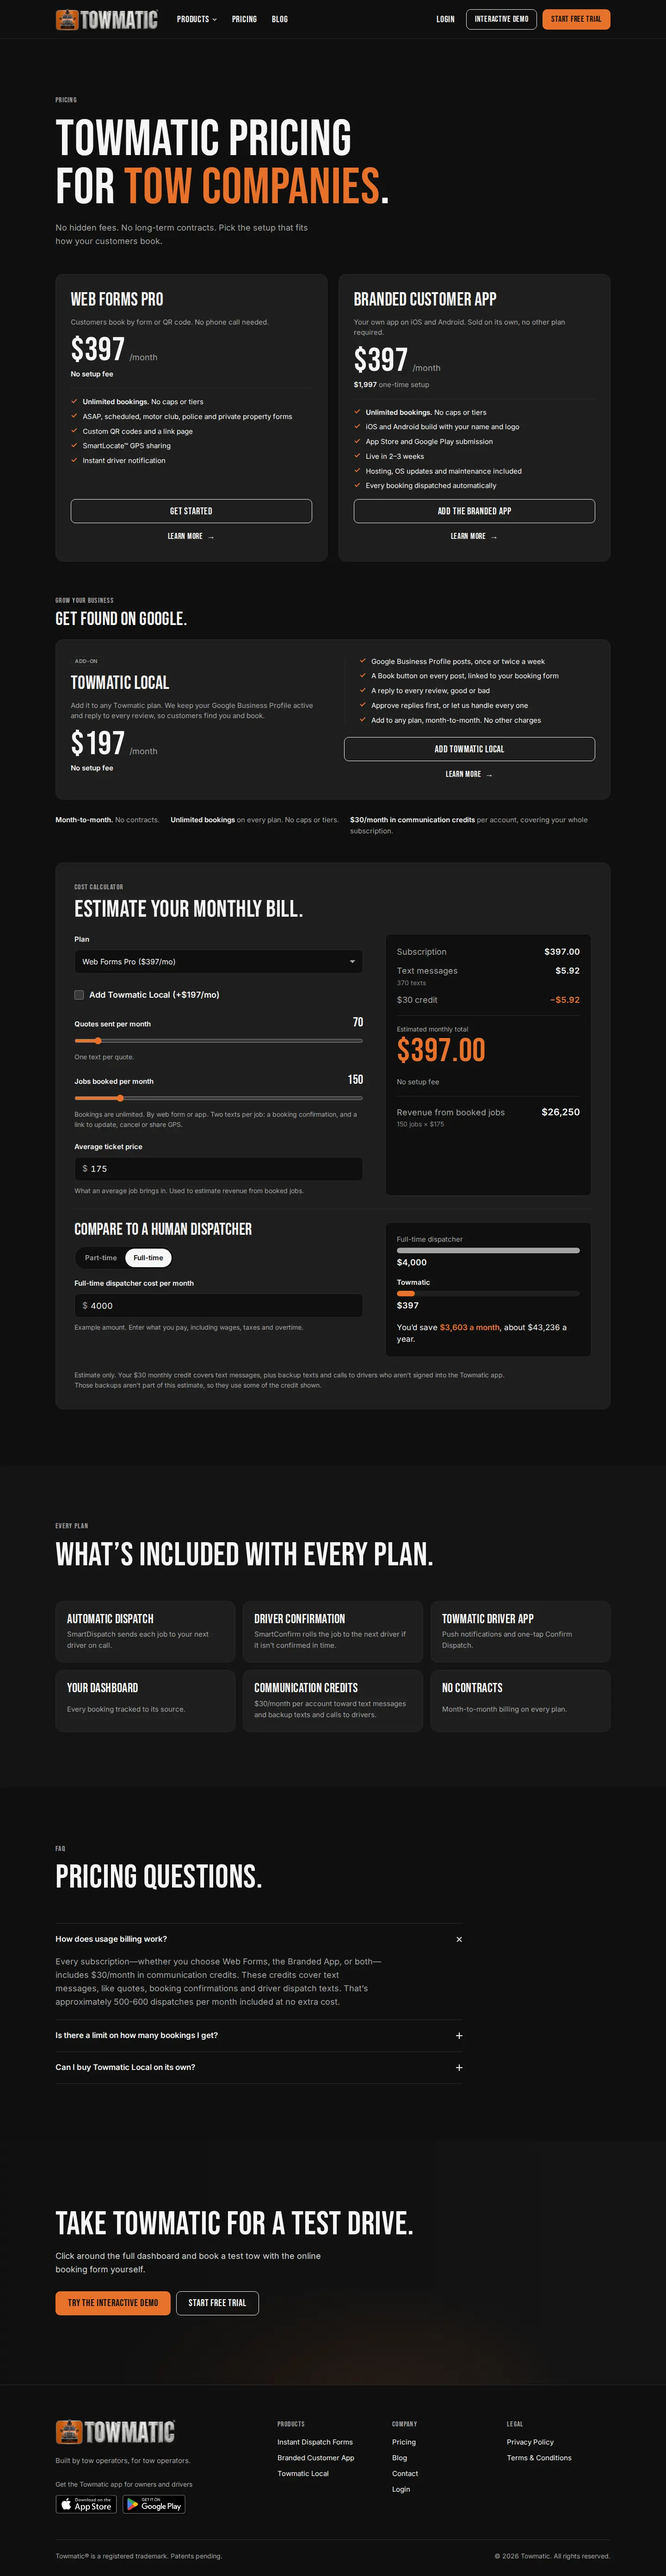
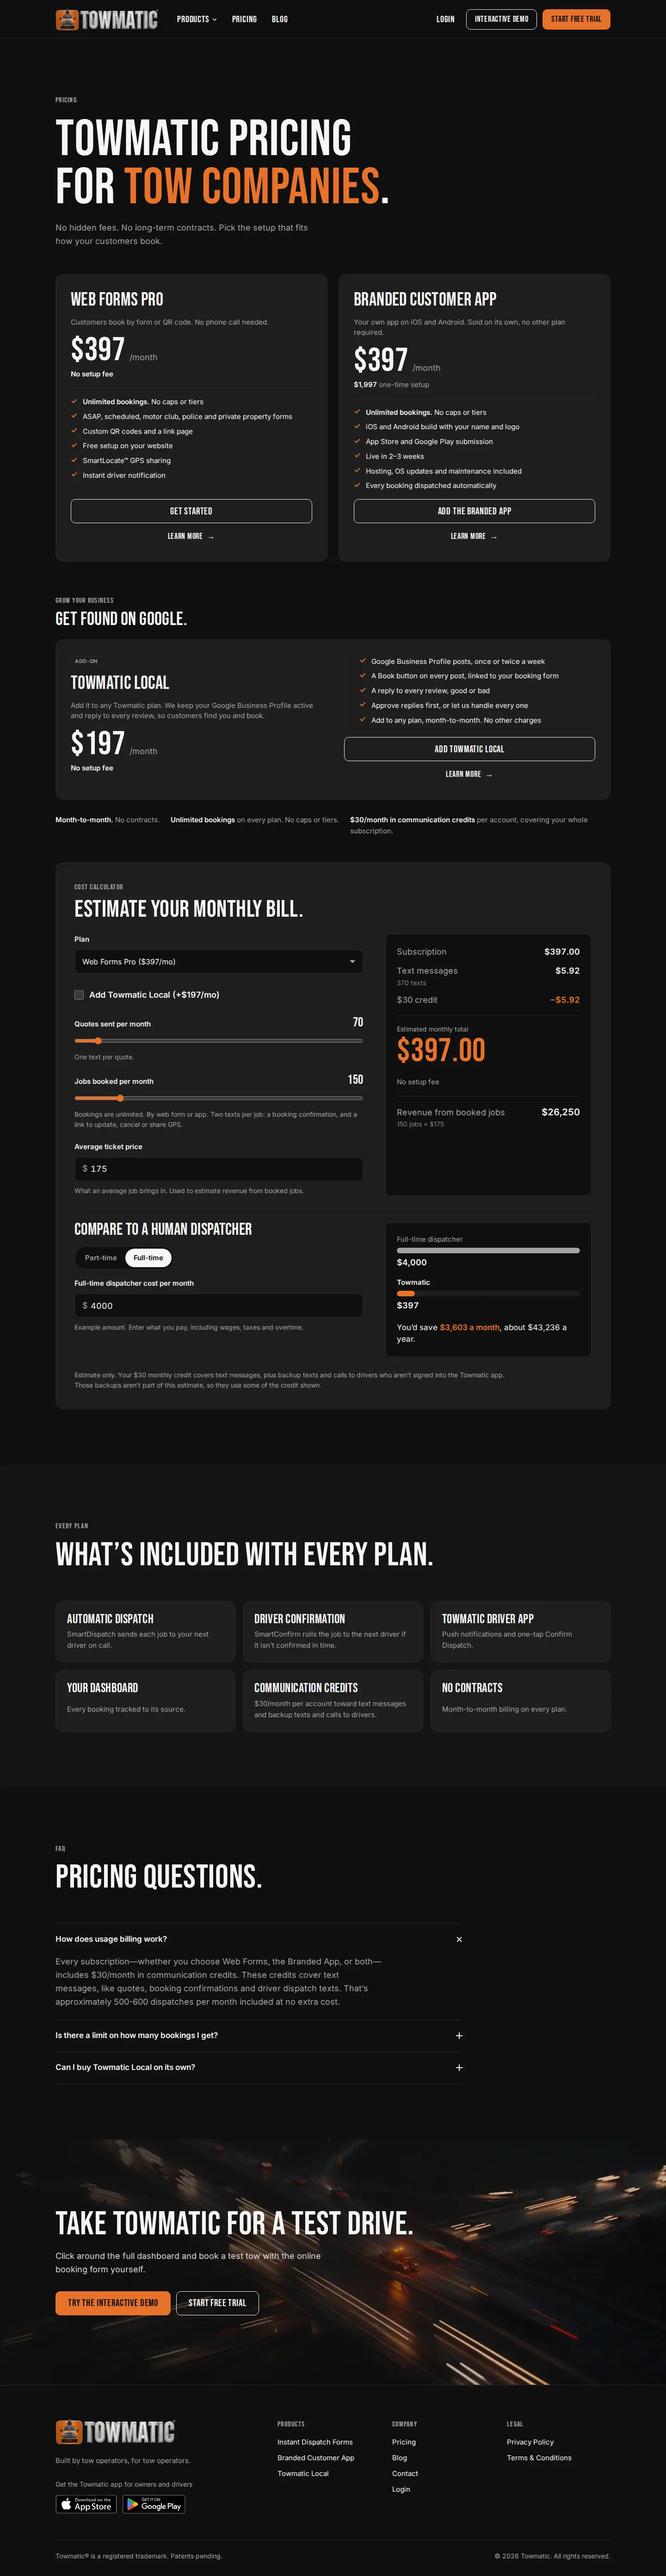
No-voice site: free website setup for the booking form, real QR truck photos
Claude-Session: https://claude.ai/code/session_01QozjXnkBDgD25Ken8NMvP1

diff --git a/website-no-voice/web-forms.html b/website-no-voice/web-forms.html
@@ -42,6 +42,14 @@
     },
     {
       "@type": "Question",
+      "name": "Can you add the form to my website?",
+      "acceptedAnswer": {
+        "@type": "Answer",
+        "text": "Yes, for free. We can add a “Book a Tow” button that opens your form, or build the whole form right into your page. Your choice. Just send us your website login or put us in touch with your web person."
+      }
+    },
+    {
+      "@type": "Question",
       "name": "Where can I put the form?",
       "acceptedAnswer": {
         "@type": "Answer",
@@ -223,13 +231,46 @@
     </div>
   </section>
 
+  <!-- Free website setup (owner: free with Web Forms Pro; button or embedded form, the customer's choice; any website) -->
+  <section class="section section--alt" aria-labelledby="site-title">
+    <div class="container">
+      <header class="section-head reveal">
+        <p class="eyebrow">Free website setup</p>
+        <h2 class="section-title" id="site-title">We'll put it on your website for you.</h2>
+        <p class="section-sub">Free with Web Forms Pro. Your website visitors book a tow in seconds instead of calling, 24/7.</p>
+      </header>
+      <ol class="steps">
+        <li class="step reveal">
+          <span class="step__num" aria-hidden="true">01</span>
+          <h3 class="step__title">Send us your website login.</h3>
+          <p class="step__text">Or put us in touch with your web person. Either works.</p>
+        </li>
+        <li class="step reveal">
+          <span class="step__num" aria-hidden="true">02</span>
+          <h3 class="step__title">Pick how it looks.</h3>
+          <p class="step__text">A “Book a Tow” button that opens your form, or the whole form built right into your page. Your choice.</p>
+        </li>
+        <li class="step reveal">
+          <span class="step__num" aria-hidden="true">03</span>
+          <h3 class="step__title">We add it for you.</h3>
+          <p class="step__text">Every booking from your site is quoted and dispatched to your next driver automatically.</p>
+        </li>
+      </ol>
+    </div>
+  </section>
+
   <!-- Detail block: put it everywhere -->
-  <section class="section section--alt" aria-labelledby="places-title">
+  <section class="section" aria-labelledby="places-title">
     <div class="container">
       <header class="section-head reveal">
         <p class="eyebrow">Put it everywhere</p>
         <h2 class="section-title" id="places-title">One form. Every place customers look.</h2>
       </header>
+      <!-- Real client truck, used with permission (Midwest Tow & Recovery). Watermark cropped out. -->
+      <figure class="photo-band reveal">
+        <img class="shot" src="images/truck-qr-side.webp" alt="A Midwest Tow &amp; Recovery flatbed with a QR code on the door that reads Scan to book instant tow. No phone call required." width="1100" height="536" loading="lazy" decoding="async">
+        <figcaption>A client’s truck. Anyone who needs a tow scans the code and books, no phone call required.</figcaption>
+      </figure>
       <ul class="place-grid reveal">
         <li><b>Your website</b><span>A booking button on every page.</span></li>
         <li><b>QR codes on trucks</b><span>Scan from the road or the lot.</span></li>
@@ -240,7 +281,7 @@
   </section>
 
   <!-- FAQ — answers confirmed by the owner -->
-  <section class="section" aria-labelledby="faq-title">
+  <section class="section section--alt" aria-labelledby="faq-title">
     <div class="container">
       <header class="section-head reveal">
         <p class="eyebrow">FAQ</p>
@@ -254,6 +295,10 @@
         <details class="faq__item">
           <summary>How does SmartLocate work?</summary>
           <p>Customers share their exact GPS location from the form in one tap, so your driver knows exactly where to go.</p>
+        </details>
+        <details class="faq__item">
+          <summary>Can you add the form to my website?</summary>
+          <p>Yes, for free. We can add a “Book a Tow” button that opens your form, or build the whole form right into your page. Your choice. Just send us your website login or put us in touch with your web person.</p>
         </details>
         <details class="faq__item">
           <summary>Where can I put the form?</summary>

diff --git a/website-no-voice/index.html b/website-no-voice/index.html
@@ -288,7 +288,7 @@
           </div>
           <div class="platform__copy">
             <h3 class="platform__headline">Book a tow without a phone call.</h3>
-            <p class="platform__line">A form on your website that quotes instantly, shares GPS in one tap and dispatches your next driver.</p>
+            <p class="platform__line">A form on your website that quotes instantly, shares GPS in one tap and dispatches your next driver. We’ll add it to your website for free.</p>
             <div class="platform__links"><a class="link-more" href="web-forms.html">Learn more <span aria-hidden="true">→</span></a></div>
           </div>
         </div>
@@ -315,6 +315,20 @@
             <p class="platform__line">Drivers get a push notification and confirm in the Towmatic app. No confirmation in time? It rolls to the next driver.</p>
           </div>
         </div>
+      </div>
+    </div>
+  </section>
+
+  <!-- Real-world proof: QR codes on a client's truck (Midwest Tow & Recovery, used with permission; watermark cropped out) -->
+  <section class="section section--flush-top feature" aria-labelledby="qr-title">
+    <div class="container feature__grid">
+      <div class="feature__copy reveal">
+        <p class="eyebrow">In the real world</p>
+        <h2 class="feature__title" id="qr-title">Scan to book. No phone call required.</h2>
+        <p class="feature__line">QR codes on a client’s truck. Anyone who needs a tow scans the code, books in seconds and gets a driver dispatched automatically.</p>
+      </div>
+      <div class="feature__visual reveal">
+        <img class="shot" src="images/truck-qr-back.webp" alt="The back of a Midwest Tow &amp; Recovery flatbed with two QR codes and the words Scan to book instant tow. No phone call required." width="1100" height="536" loading="lazy" decoding="async">
       </div>
     </div>
   </section>

diff --git a/website-no-voice/pricing.html b/website-no-voice/pricing.html
@@ -226,6 +226,7 @@
             <li><b>Unlimited bookings.</b> No caps or tiers</li>
             <li>ASAP, scheduled, motor club, police and private property forms</li>
             <li>Custom QR codes and a link page</li>
+            <li>Free setup on your website</li>
             <li>SmartLocate™ GPS sharing</li>
             <li>Instant driver notification</li>
           </ul>

diff --git a/website-no-voice/styles.css b/website-no-voice/styles.css
@@ -1231,6 +1231,10 @@ main:focus { outline: none; }
   max-width: 520px;
   margin-inline: auto;
 }
+/* Wide real photo with a caption (Web Forms page) */
+.photo-band { margin: 0 0 32px; }
+.photo-band figcaption { margin-top: 12px; font-size: var(--fs-small); color: var(--color-text-muted); }
+
 .shot--phone {
   max-width: 380px;
   margin-inline: auto;

diff --git a/website-no-voice/HANDOFF.md b/website-no-voice/HANDOFF.md
@@ -147,6 +147,7 @@ All images are WebP in `images/` and lazy-loaded below the first screen. The her
 | `tab-forms.webp`, `tab-app.webp`, `tab-dispatch.webp` | Homepage platform tabs | kie.ai, nano-banana-pro |
 | `wf-quote.webp`, `wf-locate.webp`, `wf-rotation.webp` | Web Forms feature blocks | kie.ai, nano-banana-pro |
 | `app-home.webp`, `app-book.webp`, `app-driver.webp` | Branded App feature blocks | kie.ai, nano-banana-pro |
+| `truck-qr-side.webp` (Web Forms, "Put it everywhere"), `truck-qr-back.webp` (homepage, "In the real world") | Real client truck photos with QR codes | Owner (Midwest Tow & Recovery, used with permission; Towmatic watermark cropped out; QR codes left real and scannable) |
 | `local.webp`, `local-post.webp`, `local-review.webp` | Towmatic Local hero and feature blocks | kie.ai, nano-banana-pro |
 | `blog-10-seconds.webp` | 10 Seconds post cover and blog card | Owner (from the live post) |
 | `blog-mobile-booking.webp` | Inside the 10 Seconds post | Owner (from the live post) |
@@ -284,6 +285,12 @@ These are intentional. Build them as shown in the prototype.
 
 - **No "live the same day" claim** for Instant Dispatch Forms anywhere (removed at the owner's request).
 - **Start Free Trial** buttons go to `/signup`.
+- **Free website setup** for Web Forms Pro customers: Towmatic adds the booking form to the customer's website for
+  free, as a "Book a Tow" button that opens the form or the whole form built into their page (their choice), on any
+  website. Shown as a "We'll put it on your website for you" section on the Web Forms page, a Web Forms FAQ, a
+  "Free setup on your website" bullet on the Web Forms Pro card, and a line in the homepage Web Forms tab.
+- **Real truck photos** (Midwest Tow & Recovery, a client, approved): homepage "In the real world" section and the
+  Web Forms "Put it everywhere" section.
 - **Towmatic Local** (new product, new page `/google-business-profile-management`): Google Business Profile
   posts once or twice a week, each with a Book button linking to the customer's Instant Dispatch Form, plus a
   reply to every review (owners can turn on approvals or let Towmatic handle every reply). $197/month add-on to
